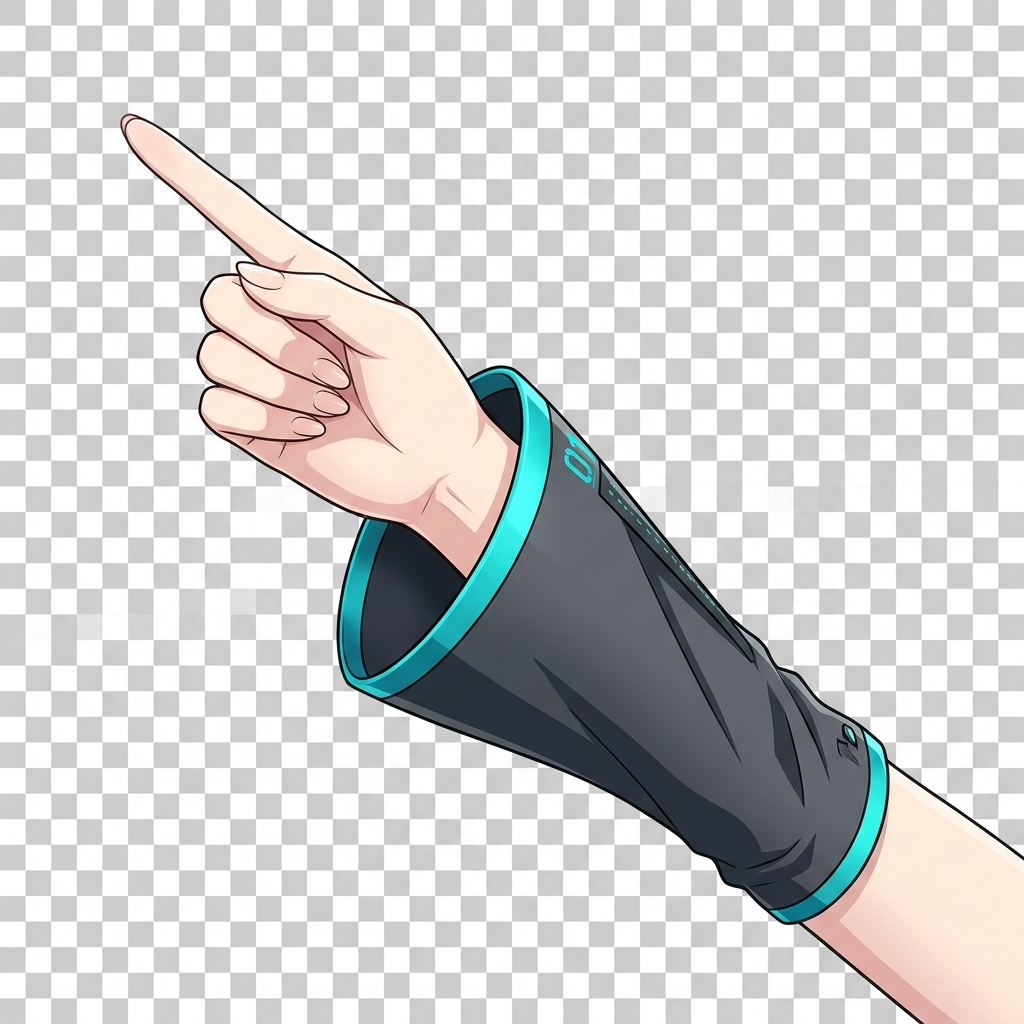
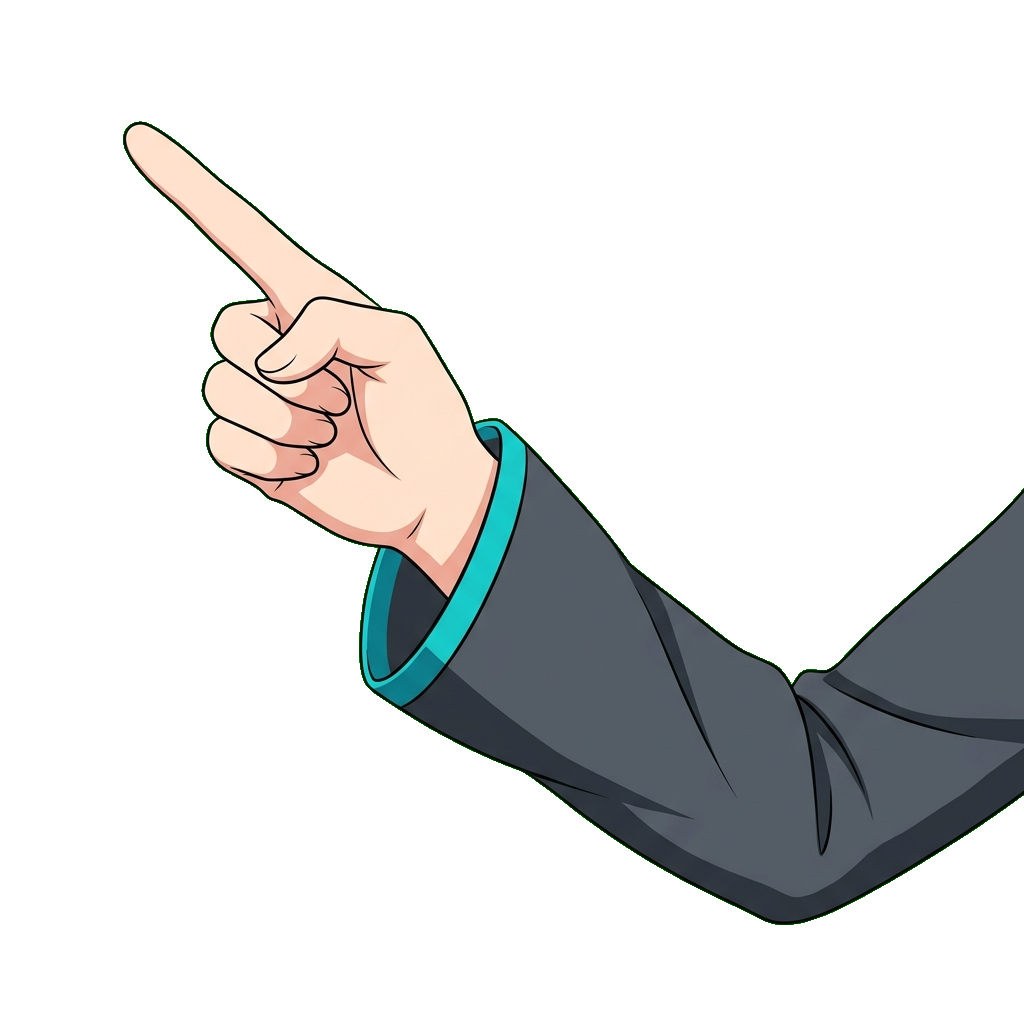
ui: remove background from custom cursor and disable trail effects

diff --git a/app/components/CustomCursor.tsx b/app/components/CustomCursor.tsx
@@ -1,35 +1,24 @@
 "use client";
 
-import { useEffect, useRef, useState } from "react";
-import { motion, useMotionValue, useSpring, AnimatePresence } from "framer-motion";
-
-const TRAIL_COUNT = 8;
+import { useEffect, useState } from "react";
+import { motion, useMotionValue, useSpring } from "framer-motion";
 
 export default function CustomCursor() {
   const mouseX = useMotionValue(-200);
   const mouseY = useMotionValue(-200);
-  const isHovering = useMotionValue(0);
 
-  const smoothX = useSpring(mouseX, { stiffness: 300, damping: 28, mass: 0.5 });
-  const smoothY = useSpring(mouseY, { stiffness: 300, damping: 28, mass: 0.5 });
+  // Faster spring for a more responsive cursor feel
+  const smoothX = useSpring(mouseX, { stiffness: 800, damping: 40, mass: 0.1 });
+  const smoothY = useSpring(mouseY, { stiffness: 800, damping: 40, mass: 0.1 });
 
-  // Trail positions stored in a ref for canvas drawing
-  const trailRef = useRef<Array<{ x: number; y: number }>>([]);
-  const canvasRef = useRef<HTMLCanvasElement>(null);
-  const animFrameRef = useRef<number>(0);
-  const rawPos = useRef({ x: -200, y: -200 });
   const [hovering, setHovering] = useState(false);
   const [clicking, setClicking] = useState(false);
-
   const [mounted, setMounted] = useState(false);
 
   useEffect(() => {
     setMounted(true);
-    // Init trail
-    trailRef.current = Array.from({ length: TRAIL_COUNT }, () => ({ x: -200, y: -200 }));
 
     const onMove = (e: MouseEvent) => {
-      rawPos.current = { x: e.clientX, y: e.clientY };
       mouseX.set(e.clientX);
       mouseY.set(e.clientY);
     };
@@ -51,120 +40,40 @@ export default function CustomCursor() {
     window.addEventListener("mousedown", onDown);
     window.addEventListener("mouseup", onUp);
 
-    // Canvas trail animation
-    let hue = 260;
-    const draw = () => {
-      const canvas = canvasRef.current;
-      if (!canvas) { animFrameRef.current = requestAnimationFrame(draw); return; }
-      const ctx = canvas.getContext("2d");
-      if (!ctx) { animFrameRef.current = requestAnimationFrame(draw); return; }
-
-      canvas.width = window.innerWidth;
-      canvas.height = window.innerHeight;
-      ctx.clearRect(0, 0, canvas.width, canvas.height);
-
-      // Update trail — each point chases the one before it
-      const trail = trailRef.current;
-      trail[0] = { x: rawPos.current.x, y: rawPos.current.y };
-      for (let i = 1; i < trail.length; i++) {
-        trail[i] = {
-          x: trail[i].x + (trail[i - 1].x - trail[i].x) * 0.35,
-          y: trail[i].y + (trail[i - 1].y - trail[i].y) * 0.35,
-        };
-      }
-
-      // Draw energy trail
-      hue = (hue + 0.8) % 360;
-      for (let i = trail.length - 1; i >= 1; i--) {
-        const t = 1 - i / trail.length;
-        const size = 6 * t;
-        const alpha = t * 0.85;
-
-        ctx.beginPath();
-        ctx.arc(trail[i].x, trail[i].y, size, 0, Math.PI * 2);
-        const gradient = ctx.createRadialGradient(
-          trail[i].x, trail[i].y, 0,
-          trail[i].x, trail[i].y, size * 2
-        );
-        gradient.addColorStop(0, `hsla(${hue}, 90%, 75%, ${alpha})`);
-        gradient.addColorStop(1, `hsla(${hue + 40}, 80%, 60%, 0)`);
-        ctx.fillStyle = gradient;
-        ctx.fill();
-      }
-
-      animFrameRef.current = requestAnimationFrame(draw);
-    };
-    animFrameRef.current = requestAnimationFrame(draw);
-
     return () => {
       window.removeEventListener("mousemove", onMove);
       window.removeEventListener("mouseover", onOver);
       window.removeEventListener("mousedown", onDown);
       window.removeEventListener("mouseup", onUp);
-      cancelAnimationFrame(animFrameRef.current);
     };
   }, [mouseX, mouseY]);
 
   if (!mounted) return null;
 
   return (
-    <>
-      <canvas
-        ref={canvasRef}
-        className="pointer-events-none fixed inset-0 z-[9998] hidden lg:block"
-        style={{ mixBlendMode: "screen" }}
-      />
-
-      {/* Miku Arm Cursor */}
+    <motion.div
+      className="pointer-events-none fixed left-0 top-0 z-[9999] hidden lg:block"
+      style={{ 
+        x: smoothX, 
+        y: smoothY,
+        translateX: "-10%", // Offset to align finger tip
+        translateY: "-5%",
+      }}
+    >
       <motion.div
-        className="pointer-events-none fixed left-0 top-0 z-[9999] hidden lg:block"
-        style={{ 
-          x: smoothX, 
-          y: smoothY,
-          translateX: "-10%", // Offset to align finger tip (adjust based on image)
-          translateY: "-5%",
+        animate={{
+          scale: clicking ? 0.9 : hovering ? 1.1 : 1,
+          rotate: hovering ? -5 : 0,
         }}
+        transition={{ type: "spring", stiffness: 400, damping: 20 }}
+        className="relative h-24 w-24"
       >
-        <motion.div
-          animate={{
-            scale: clicking ? 0.9 : hovering ? 1.15 : 1,
-            rotate: hovering ? -5 : 0,
-          }}
-          transition={{ type: "spring", stiffness: 400, damping: 20 }}
-          className="relative h-24 w-24" // Larger size for better visibility
-        >
-          <img
-            src="/cursor-arm.png"
-            alt="Cursor Arm"
-            className="h-full w-full object-contain"
-          />
-        </motion.div>
-
-        {/* Hover burst particles (Optional: keep or remove) */}
-        <AnimatePresence>
-          {hovering && (
-            <>
-              {[0, 60, 120, 180, 240, 300].map((deg) => (
-                <motion.div
-                  key={deg}
-                  className="absolute left-0 top-0 -translate-x-1/2 -translate-y-1/2 rounded-full bg-cyan-400"
-                  initial={{ width: 3, height: 3, x: 0, y: 0, opacity: 1 }}
-                  animate={{
-                    x: Math.cos((deg * Math.PI) / 180) * 30,
-                    y: Math.sin((deg * Math.PI) / 180) * 30,
-                    opacity: 0.7,
-                  }}
-                  exit={{ opacity: 0, x: 0, y: 0 }}
-                  transition={{ duration: 0.3, ease: "easeOut" }}
-                  style={{
-                    boxShadow: "0 0 8px 2px rgba(34,211,238,0.6)",
-                  }}
-                />
-              ))}
-            </>
-          )}
-        </AnimatePresence>
+        <img
+          src="/cursor-arm.png"
+          alt="Cursor Arm"
+          className="h-full w-full object-contain drop-shadow-[0_4px_8px_rgba(0,0,0,0.5)]"
+        />
       </motion.div>
-    </>
+    </motion.div>
   );
 }

diff --git a/scratch/remove-bg.js b/scratch/remove-bg.js
@@ -1,0 +1,42 @@
+const sharp = require('sharp');
+const fs = require('fs');
+
+const inputPath = 'C:\\Users\\Hoang\\.gemini\\antigravity\\brain\\0de7491d-14d0-442b-8212-3242f17411c6\\cursor_arm_green_1778161956677.png';
+const outputPath = 'public/cursor-arm.png';
+
+async function processImage() {
+  try {
+    const { data, info } = await sharp(inputPath)
+      .ensureAlpha()
+      .raw()
+      .toBuffer({ resolveWithObject: true });
+
+    for (let i = 0; i < data.length; i += info.channels) {
+      const r = data[i];
+      const g = data[i + 1];
+      const b = data[i + 2];
+      
+      // Check for green-ish background
+      // Neon green is approx (0, 255, 0)
+      if (r < 100 && g > 150 && b < 100) {
+        data[i + 3] = 0; // Set alpha to 0 (transparent)
+      }
+    }
+
+    await sharp(data, {
+      raw: {
+        width: info.width,
+        height: info.height,
+        channels: info.channels
+      }
+    })
+    .png()
+    .toFile(outputPath);
+
+    console.log('Background removed and saved to', outputPath);
+  } catch (error) {
+    console.error('Error processing image:', error);
+  }
+}
+
+processImage();
